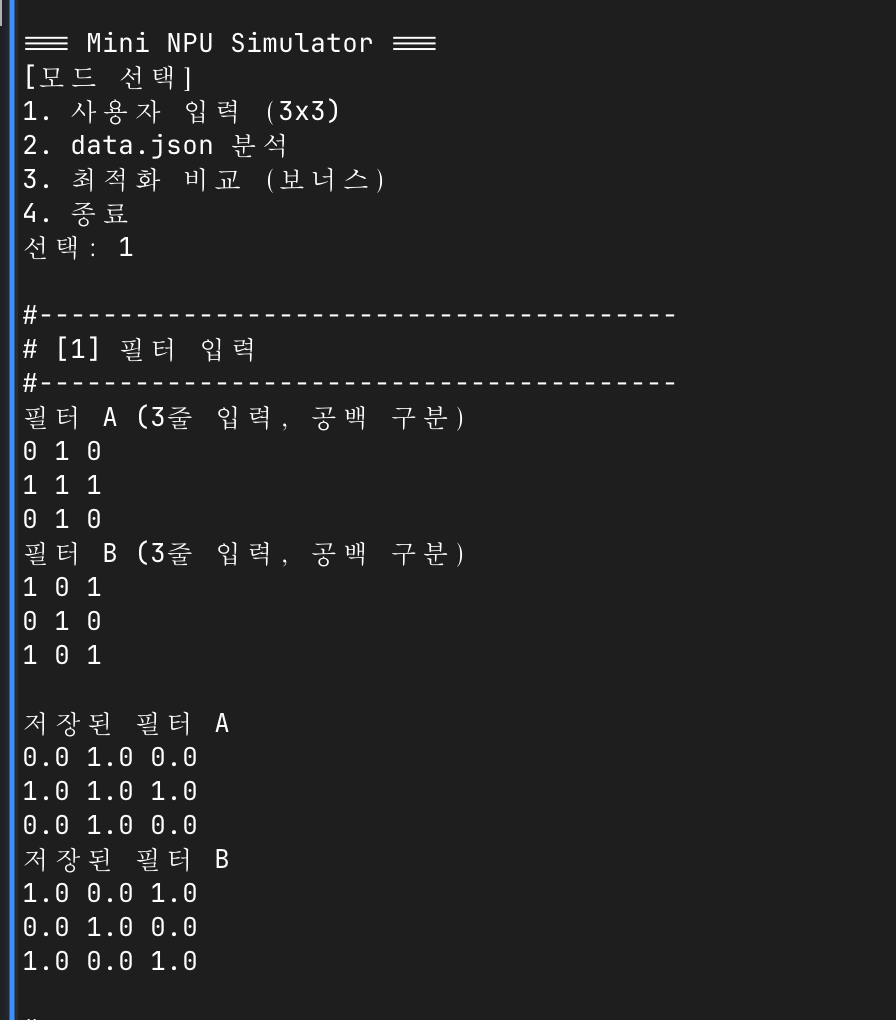
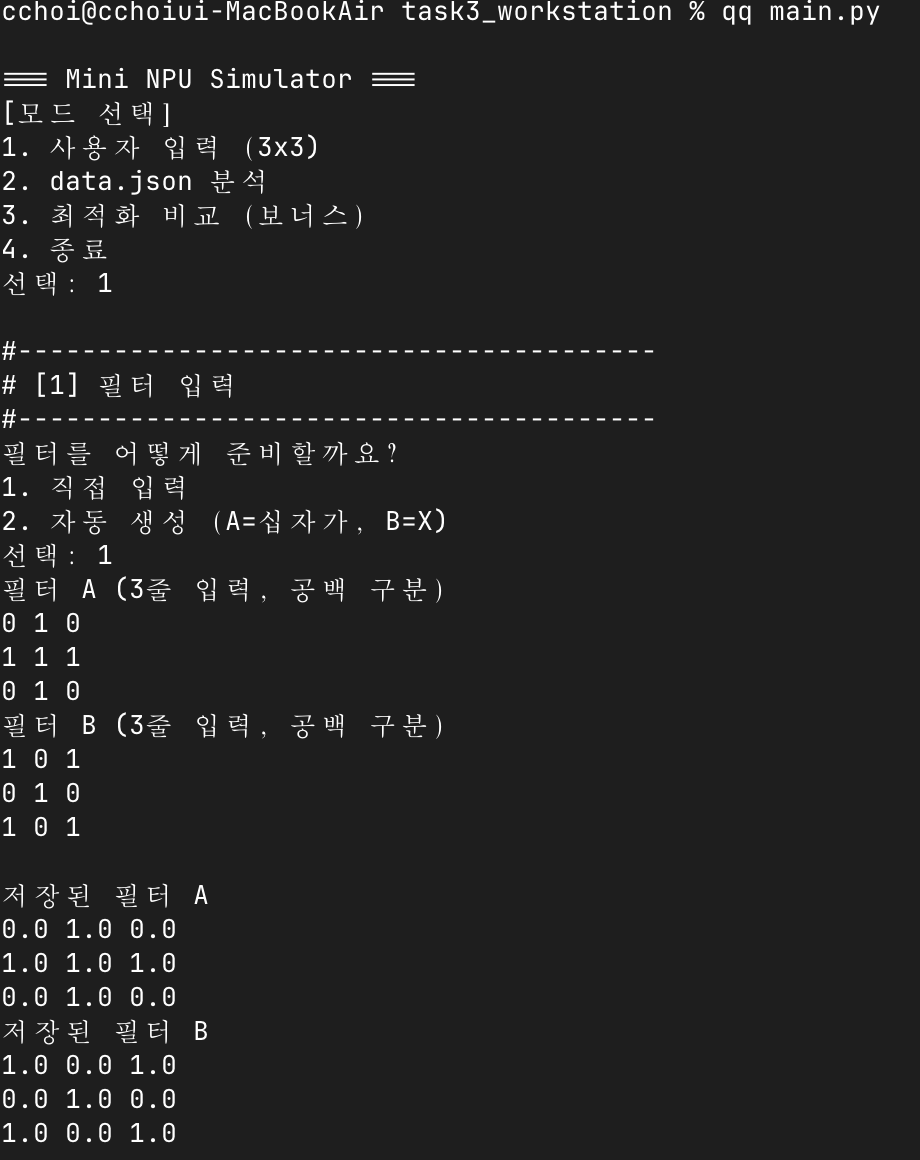
Docs: 코드 변경 반영해 실행 화면 다시 찍고 자동 생성 화면 추가함

diff --git a/README.md b/README.md
@@ -64,9 +64,17 @@ task3_workstation/
 
 ![모드1 입력](screenshots/04_manual_mode_1.png)
 
-같은 실행의 MAC 결과와 판정
+같은 실행의 패턴 입력과 MAC 결과
 
 ![모드1 결과](screenshots/05_manual_mode_2.png)
+
+모드 1에서 필터를 **생성기로 자동 생성**한 경우 (보너스 재활용)
+
+![모드1 자동생성](screenshots/06_manual_generated_1.png)
+
+같은 실행의 MAC 결과 — 십자가 필터(A)가 이겨서 판정이 A로 나옵니다
+
+![모드1 자동생성 결과](screenshots/07_manual_generated_2.png)
 
 ## 구현 요약
 
